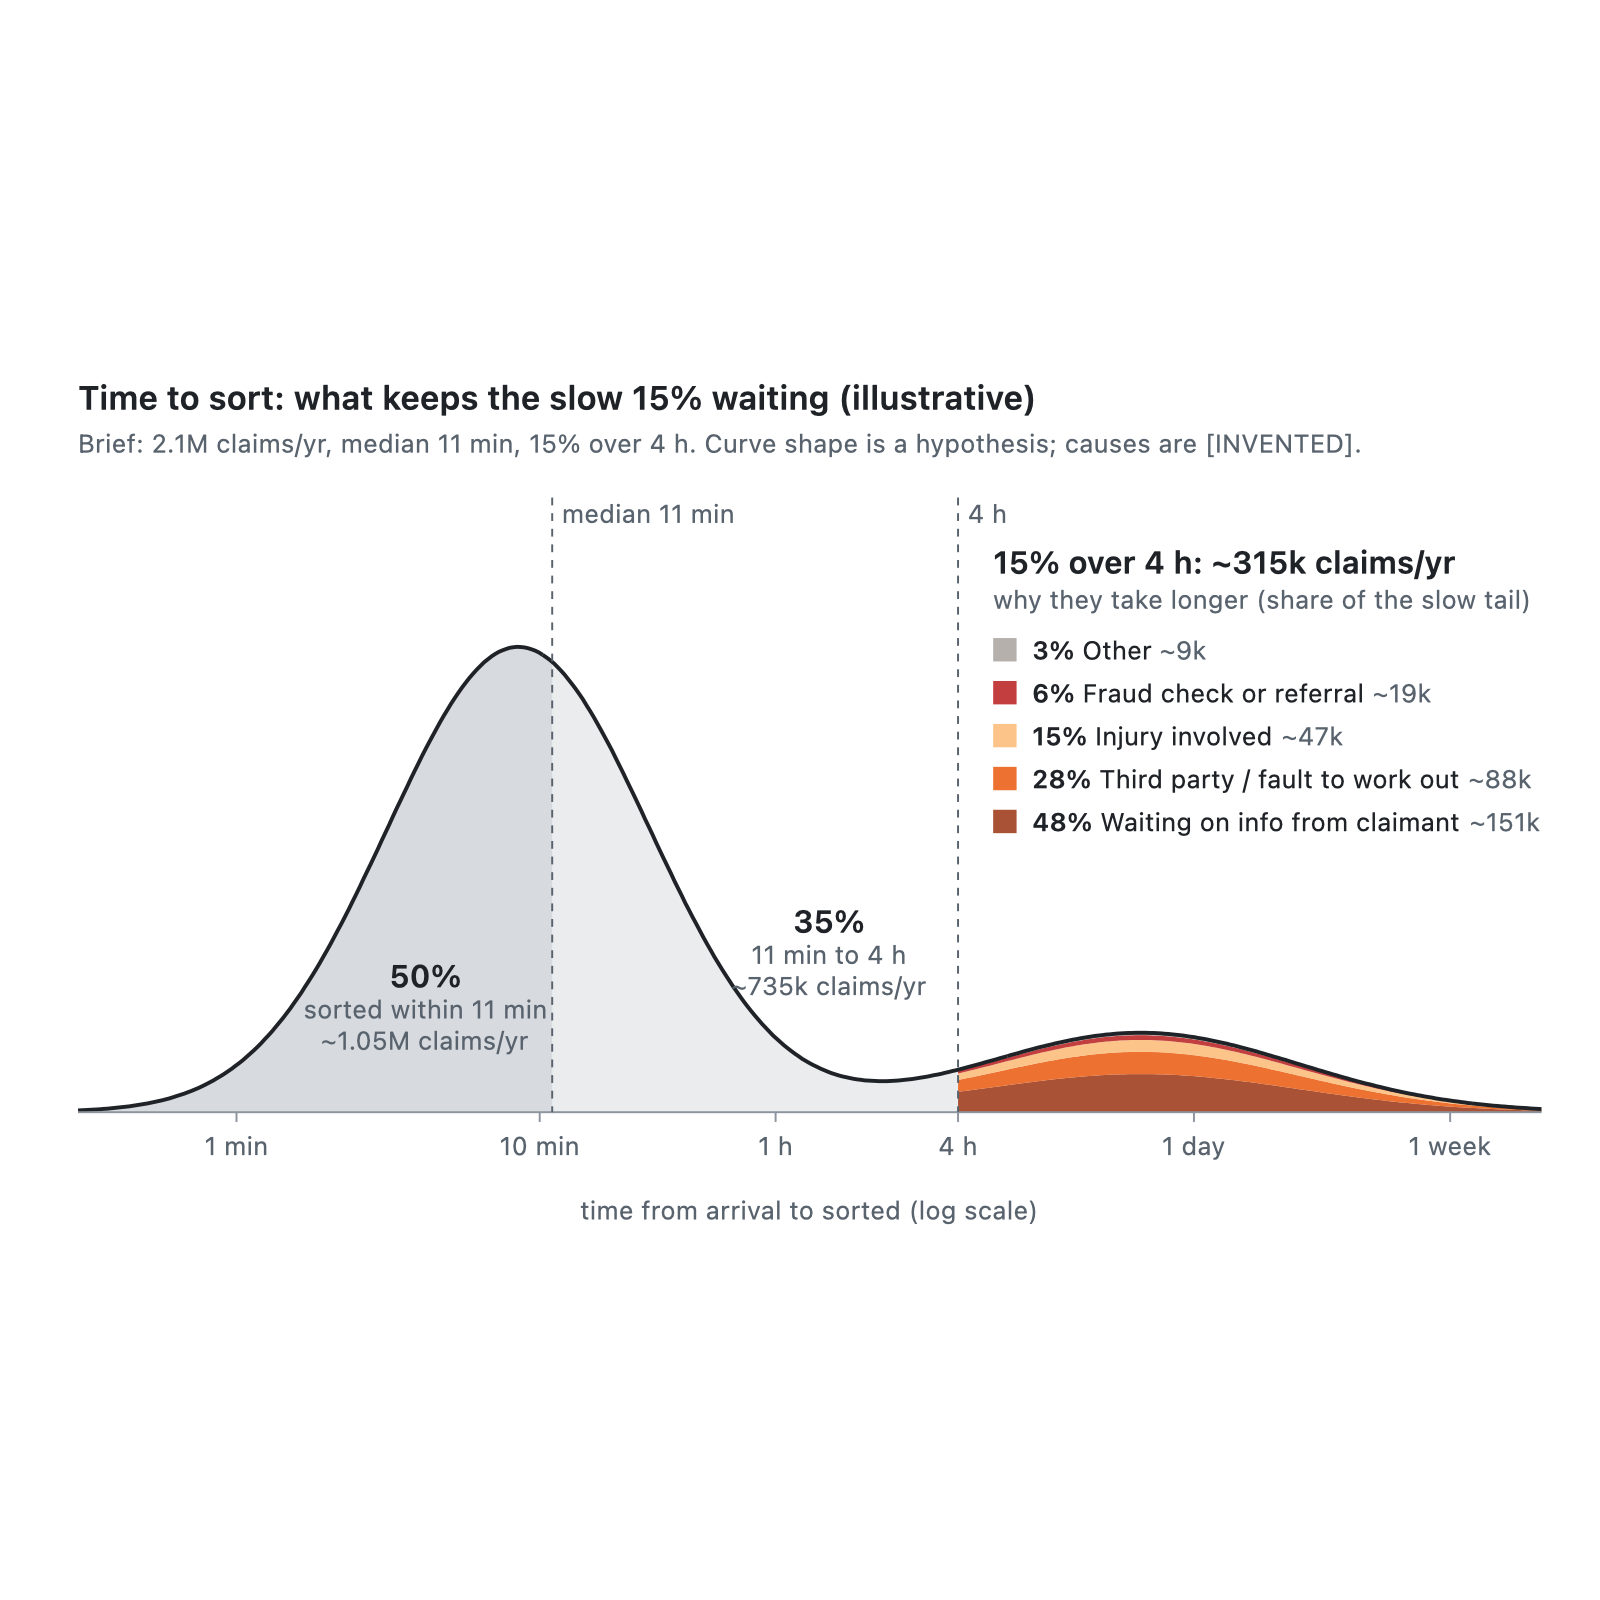
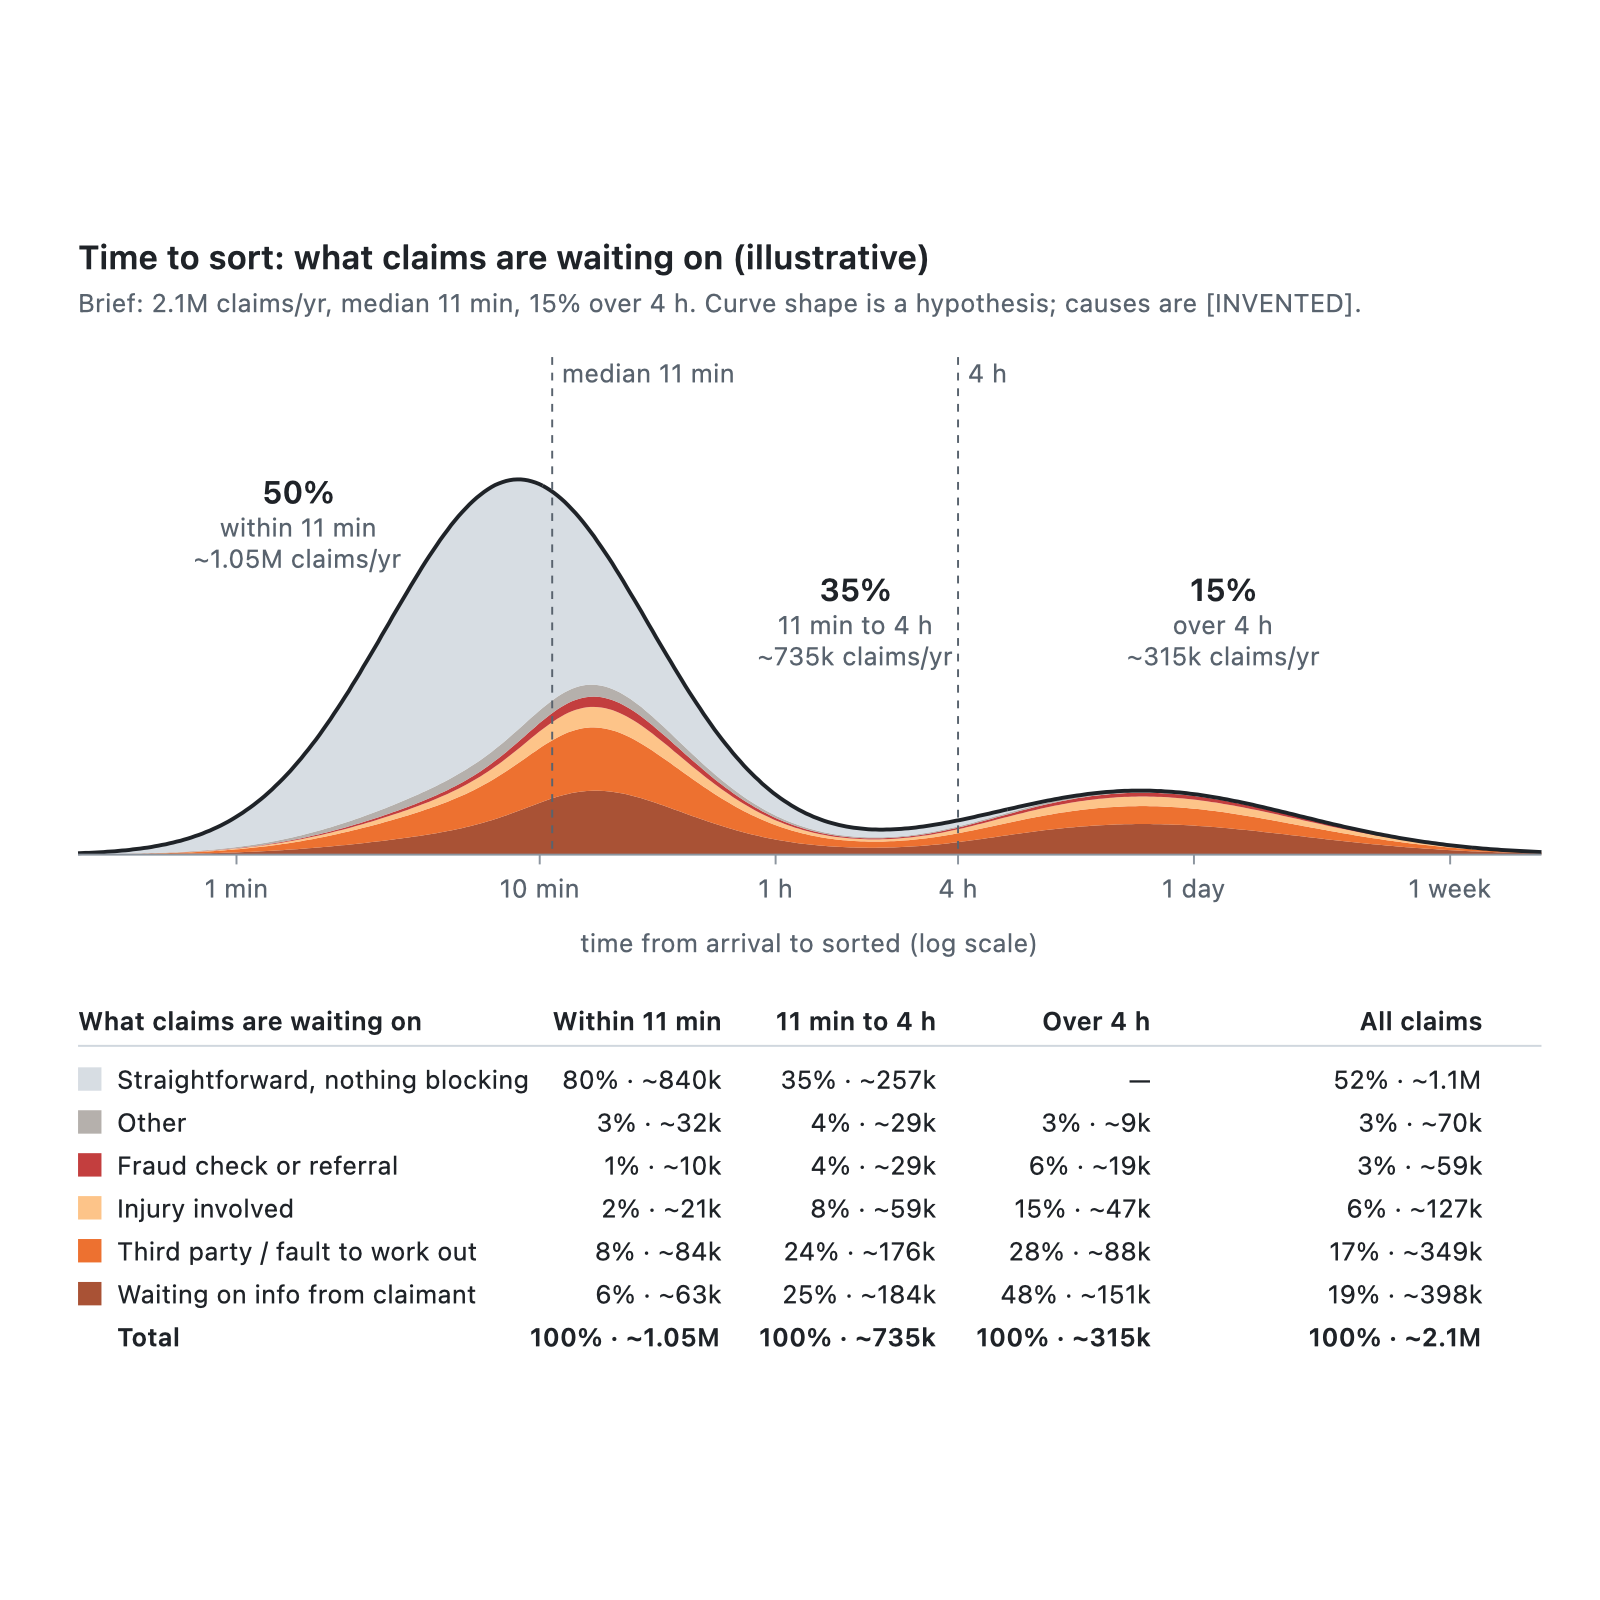
Time-to-sort chart: cause breakdown across the full curve, with table of shares and claims per year

diff --git a/02-research/assets/make_time_to_sort_chart.py b/02-research/assets/make_time_to_sort_chart.py
@@ -6,8 +6,9 @@ It is a hypothesis about the shape, not data.
 
 Writes two charts:
 - time-to-sort-distribution.svg: the curve with its three sections
-- time-to-sort-causes.svg: the same curve, with the >4h tail split by cause
-  (invented internal data, internal-data.md §2) and claim counts per year
+- time-to-sort-causes.svg: the same curve, with every section split by what
+  claims are waiting on (invented internal data, internal-data.md §2), and a
+  table of shares and claims per year
 
 Run: python3 make_time_to_sort_chart.py  (no dependencies)
 """
@@ -19,12 +20,16 @@ W_SLOW, M_FAST, S_FAST, M_SLOW, S_SLOW = 0.17, 8.5, 1.0, 960.0, 1.2
 X_MIN, X_MAX = 0.3, 20160.0
 CLAIMS_PER_YEAR = 2_100_000
 
+SECTIONS = [(X_MIN, 11, 0.50, "Within 11 min"), (11, 240, 0.35, "11 min to 4 h"), (240, X_MAX, 0.15, "Over 4 h")]
+
+# Share of claims in each section, by what they're waiting on. [INVENTED], internal-data.md §2
 CAUSES = [
-    ("Waiting on info from claimant", 0.48, "#9a3412"),
-    ("Third party / fault to work out", 0.28, "#ea580c"),
-    ("Injury involved", 0.15, "#fdba74"),
-    ("Fraud check or referral", 0.06, "#b91c1c"),
-    ("Other", 0.03, "#a8a29e"),
+    ("Waiting on info from claimant", (0.06, 0.25, 0.48), "#9a3412"),
+    ("Third party / fault to work out", (0.08, 0.24, 0.28), "#ea580c"),
+    ("Injury involved", (0.02, 0.08, 0.15), "#fdba74"),
+    ("Fraud check or referral", (0.01, 0.04, 0.06), "#b91c1c"),
+    ("Other", (0.03, 0.04, 0.03), "#a8a29e"),
+    ("Straightforward, nothing blocking", (0.80, 0.35, 0.00), "#d0d7de"),
 ]
 
 WIDTH = 820
@@ -63,8 +68,23 @@ y_max = max(density(x) for x in xs) * 1.3
 ticks = [(1, "1 min"), (10, "10 min"), (60, "1 h"), (240, "4 h"), (1440, "1 day"), (10080, "1 week")]
 
 
-def render(target, height, title, subtitle, with_causes):
-    plot_w, plot_h = WIDTH - LEFT - RIGHT, height - TOP - BOTTOM
+def section_weights(x, width=0.3):
+    """Blend the section mixes smoothly across the 11 min and 4 h boundaries."""
+    past = [1 / (1 + exp(-(log(x) - log(b)) / width)) for b in (11, 240)]
+    return [1 - past[0], past[0] - past[1], past[1]]
+
+
+def stacked(x, k):
+    """Cumulative share of the first k causes at time x."""
+    w = section_weights(x)
+    return sum(ws * sum(c[1][s] for c in CAUSES[:k]) for s, ws in enumerate(w))
+
+
+def render(target, title, subtitle, with_causes):
+    plot_h = 250
+    table_h = 30 + 22 * (len(CAUSES) + 1) + 20 if with_causes else 0
+    height = TOP + plot_h + BOTTOM + table_h
+    plot_w = WIDTH - LEFT - RIGHT
 
     def sx(x):
         return LEFT + (log(x) - log(X_MIN)) / (log(X_MAX) - log(X_MIN)) * plot_w
@@ -72,11 +92,11 @@ def render(target, height, title, subtitle, with_causes):
     def sy(y):
         return TOP + plot_h - y / y_max * plot_h
 
-    def band_path(lo, hi, f_lo=0.0, f_hi=1.0):
+    def band_path(lo, hi, f_lo=lambda x: 0.0, f_hi=lambda x: 1.0):
         pts = [lo] + [x for x in xs if lo <= x <= hi] + [hi]
-        top = " ".join(f"L{sx(x):.1f},{sy(density(x) * f_hi):.1f}" for x in pts)
-        bottom = " ".join(f"L{sx(x):.1f},{sy(density(x) * f_lo):.1f}" for x in reversed(pts))
-        return f"M{sx(lo):.1f},{sy(density(lo) * f_lo):.1f} {top} {bottom} Z"
+        top = " ".join(f"L{sx(x):.1f},{sy(density(x) * f_hi(x)):.1f}" for x in pts)
+        bottom = " ".join(f"L{sx(x):.1f},{sy(density(x) * f_lo(x)):.1f}" for x in reversed(pts))
+        return f"M{sx(lo):.1f},{sy(density(lo) * f_lo(lo)):.1f} {top} {bottom} Z"
 
     line = "M" + " L".join(f"{sx(x):.1f},{sy(density(x)):.1f}" for x in xs)
 
@@ -86,17 +106,20 @@ def render(target, height, title, subtitle, with_causes):
         f'<rect width="{WIDTH}" height="{height}" fill="#ffffff"/>',
         f'<text x="{LEFT}" y="30" font-size="17" font-weight="600" fill="#1f2328">{title}</text>',
         f'<text x="{LEFT}" y="52" fill="#59636e">{subtitle}</text>',
-        f'<path d="{band_path(X_MIN, 11)}" fill="#8c959f" fill-opacity="0.35"/>',
-        f'<path d="{band_path(11, 240)}" fill="#8c959f" fill-opacity="0.18"/>',
     ]
 
     if with_causes:
-        cum = 0.0
-        for _, share, colour in CAUSES:
-            out.append(f'<path d="{band_path(240, X_MAX, cum, cum + share)}" fill="{colour}" fill-opacity="0.85"/>')
-            cum += share
+        for k in range(len(CAUSES)):
+            out.append(
+                f'<path d="{band_path(X_MIN, X_MAX, lambda x: stacked(x, k), lambda x: stacked(x, k + 1))}" '
+                f'fill="{CAUSES[k][2]}" fill-opacity="0.85"/>'
+            )
     else:
-        out.append(f'<path d="{band_path(240, X_MAX)}" fill="#e8590c" fill-opacity="0.35"/>')
+        out += [
+            f'<path d="{band_path(X_MIN, 11)}" fill="#8c959f" fill-opacity="0.35"/>',
+            f'<path d="{band_path(11, 240)}" fill="#8c959f" fill-opacity="0.18"/>',
+            f'<path d="{band_path(240, X_MAX)}" fill="#e8590c" fill-opacity="0.35"/>',
+        ]
 
     out += [
         f'<path d="{line}" fill="none" stroke="#1f2328" stroke-width="2"/>',
@@ -110,63 +133,82 @@ def render(target, height, title, subtitle, with_causes):
         )
         out.append(f'<text x="{sx(v) + 5:.1f}" y="{TOP + 8}" fill="#59636e">{label}</text>')
 
-    extra = 18 if with_causes else 0
-    sections = [(4.2, 30 + extra, 0.50, "sorted within 11 min"), (90, 58 + extra, 0.35, "11 min to 4 h")]
-    if not with_causes:
-        sections.append((1800, 58, 0.15, "over 4 h"))
-    for x, lift, share, name in sections:
-        y = sy(0) - lift
-        out.append(
-            f'<text x="{sx(x):.1f}" y="{y - 16:.1f}" text-anchor="middle" font-size="16" '
-            f'font-weight="600" fill="#1f2328">{share:.0%}</text>'
-        )
-        out.append(f'<text x="{sx(x):.1f}" y="{y:.1f}" text-anchor="middle" fill="#59636e">{name}</text>')
-        if with_causes:
+    if with_causes:
+        labels = [(1.6, TOP + 70), (110, TOP + 120), (1800, TOP + 120)]
+        for (x, y), (_, _, share, name) in zip(labels, SECTIONS):
             out.append(
-                f'<text x="{sx(x):.1f}" y="{y + 16:.1f}" text-anchor="middle" fill="#59636e">'
+                f'<text x="{sx(x):.1f}" y="{y:.1f}" text-anchor="middle" font-size="16" '
+                f'font-weight="600" fill="#1f2328">{share:.0%}</text>'
+            )
+            out.append(
+                f'<text x="{sx(x):.1f}" y="{y + 17:.1f}" text-anchor="middle" fill="#59636e">'
+                f"{name.lower()}</text>"
+            )
+            out.append(
+                f'<text x="{sx(x):.1f}" y="{y + 33:.1f}" text-anchor="middle" fill="#59636e">'
                 f"{claims(share)} claims/yr</text>"
             )
-
-    if with_causes:
-        lx, ly = sx(240) + 18, TOP + 34
-        out.append(
-            f'<text x="{lx:.1f}" y="{ly:.1f}" font-size="16" font-weight="600" fill="#1f2328">'
-            f"15% over 4 h: {claims(0.15)} claims/yr</text>"
-        )
-        out.append(f'<text x="{lx:.1f}" y="{ly + 18:.1f}" fill="#59636e">why they take longer (share of the slow tail)</text>')
-        for i, (name, share, colour) in enumerate(reversed(CAUSES)):
-            y = ly + 44 + i * 22
-            out.append(f'<rect x="{lx:.1f}" y="{y - 11:.1f}" width="12" height="12" fill="{colour}" fill-opacity="0.85"/>')
+    else:
+        for x, lift, share, name in [
+            (4.2, 30, 0.50, "sorted within 11 min"),
+            (90, 58, 0.35, "11 min to 4 h"),
+            (1800, 58, 0.15, "over 4 h"),
+        ]:
+            y = sy(0) - lift
             out.append(
-                f'<text x="{lx + 20:.1f}" y="{y:.1f}" fill="#1f2328"><tspan font-weight="600">{share:.0%}</tspan> '
-                f'{name} <tspan fill="#59636e">{claims(0.15 * share)}</tspan></text>'
+                f'<text x="{sx(x):.1f}" y="{y - 16:.1f}" text-anchor="middle" font-size="16" '
+                f'font-weight="600" fill="#1f2328">{share:.0%}</text>'
             )
+            out.append(f'<text x="{sx(x):.1f}" y="{y:.1f}" text-anchor="middle" fill="#59636e">{name}</text>')
 
     for v, label in ticks:
         out.append(f'<line x1="{sx(v):.1f}" x2="{sx(v):.1f}" y1="{sy(0):.1f}" y2="{sy(0) + 5:.1f}" stroke="#8c959f"/>')
         out.append(f'<text x="{sx(v):.1f}" y="{sy(0) + 22:.1f}" text-anchor="middle" fill="#59636e">{label}</text>')
 
     out.append(
-        f'<text x="{LEFT + plot_w / 2:.1f}" y="{height - 15}" text-anchor="middle" fill="#59636e">'
+        f'<text x="{LEFT + plot_w / 2:.1f}" y="{sy(0) + 50:.1f}" text-anchor="middle" fill="#59636e">'
         "time from arrival to sorted (log scale)</text>"
     )
+
+    if with_causes:
+        ty = sy(0) + BOTTOM + 20
+        cols = [370, 480, 590, 760]
+        heads = [s[3] for s in SECTIONS] + ["All claims"]
+        out.append(f'<text x="{LEFT}" y="{ty:.1f}" font-weight="600" fill="#1f2328">What claims are waiting on</text>')
+        for cx, h in zip(cols, heads):
+            out.append(f'<text x="{cx}" y="{ty:.1f}" text-anchor="end" font-weight="600" fill="#1f2328">{h}</text>')
+        out.append(f'<line x1="{LEFT}" x2="{WIDTH - RIGHT}" y1="{ty + 8:.1f}" y2="{ty + 8:.1f}" stroke="#d0d7de"/>')
+        rows = list(reversed(CAUSES)) + [("Total", (1.0, 1.0, 1.0), None)]
+        for r, (name, shares, colour) in enumerate(rows):
+            y = ty + 30 + r * 22
+            if colour:
+                out.append(f'<rect x="{LEFT}" y="{y - 11:.1f}" width="12" height="12" fill="{colour}" fill-opacity="0.85"/>')
+            weight = ' font-weight="600"' if colour is None else ""
+            out.append(f'<text x="{LEFT + 20}" y="{y:.1f}" fill="#1f2328"{weight}>{name}</text>')
+            overall = sum(sh * sec[2] for sh, sec in zip(shares, SECTIONS))
+            cells = [(sh, sh * sec[2]) for sh, sec in zip(shares, SECTIONS)] + [(overall, overall)]
+            for cx, (pct, of_all) in zip(cols, cells):
+                text = f"{pct:.0%} · {claims(of_all)}" if of_all else "—"
+                out.append(f'<text x="{cx}" y="{y:.1f}" text-anchor="end" fill="#1f2328"{weight}>{text}</text>')
+
     out.append("</svg>")
     target.write_text("\n".join(out))
     print(f"wrote {target}")
 
 
+for s in range(len(SECTIONS)):
+    assert abs(sum(c[1][s] for c in CAUSES) - 1) < 1e-9, f"section {s} shares don't add to 100%"
+
 here = Path(__file__).parent
 render(
     here / "time-to-sort-distribution.svg",
-    400,
     "Time to sort: a fast majority and a long tail (illustrative)",
     "Known from the brief: median 11 min, 15% over 4 h. Curve shape is a hypothesis fitted to those two points.",
     with_causes=False,
 )
 render(
     here / "time-to-sort-causes.svg",
-    460,
-    "Time to sort: what keeps the slow 15% waiting (illustrative)",
+    "Time to sort: what claims are waiting on (illustrative)",
     "Brief: 2.1M claims/yr, median 11 min, 15% over 4 h. Curve shape is a hypothesis; causes are [INVENTED].",
     with_causes=True,
 )

diff --git a/02-research/time-to-sort-distribution.md b/02-research/time-to-sort-distribution.md
@@ -8,9 +8,14 @@ What the brief's time-to-sort numbers do and don't tell us, and what we'd ask fo
 
 ### Why the slow 15% take longer
 
-![Time to sort with the slow tail split by cause](assets/time-to-sort-causes.svg)
+![Time to sort split by what claims are waiting on](assets/time-to-sort-causes.svg)
 
-The same curve, with the claims over 4 h split by cause and turned into claims per year (15% of 2.1M = ~315k). Waiting on information from the claimant is the biggest band, ~151k claims a year, which is why missing-information flagging comes first. Fraud is the smallest real cause, ~19k. **The causes are [INVENTED]** ([internal-data.md §2](internal-data.md)); the curve shape is illustrative. PNG for the deck: [`assets/time-to-sort-causes.png`](assets/time-to-sort-causes.png).
+The same curve, with every section split by what claims are waiting on, and turned into claims per year. **The causes are [INVENTED]** ([internal-data.md §2](internal-data.md)); the curve shape is illustrative, and the mix is blended smoothly across the 11 min and 4 h lines (the table has the exact numbers per section). PNG for the deck: [`assets/time-to-sort-causes.png`](assets/time-to-sort-causes.png).
+
+- **The fast half is mostly straightforward claims** (80%, ~840k a year): nothing to wait on.
+- **The slow 15% has no straightforward claims.** Waiting on information is the biggest band (48%, ~151k).
+- **Waiting on information is the biggest blocker overall** (~398k claims a year), and more of it sits between 11 min and 4 h (~184k) than over 4 h. So missing-information flagging speeds up far more claims than the slow tail alone suggests.
+- **Fraud is small everywhere**: ~59k claims a year, 3% of all claims.
 
 ## What we know vs what we infer
 

diff --git a/02-research/internal-data.md b/02-research/internal-data.md
@@ -36,7 +36,18 @@ Weighted, this gives ~15% over 4h, matching the brief.
 | Fraud check or referral | 6% |
 | Other | 3% |
 
-Shown on the time-to-sort curve, with claims per year: [time-to-sort-distribution.md](time-to-sort-distribution.md#why-the-slow-15-take-longer).
+**Across all claims, not just the slow ones.** The same method on a second random sample of 400 claims from the faster two sections (claims sorted in under 4h):
+
+| What the claim was waiting on | Within 11 min (50%) | 11 min to 4 h (35%) | Over 4 h (15%) | All claims |
+|---|---|---|---|---|
+| Straightforward, nothing blocking | 80% | 35% | 0% | ~52% (~1.1M) |
+| Waiting on information from the claimant | 6% | 25% | 48% | ~19% (~398k) |
+| Third party / fault to determine | 8% | 24% | 28% | ~17% (~349k) |
+| Injury involved | 2% | 8% | 15% | ~6% (~127k) |
+| Fraud check or referral | 1% | 4% | 6% | ~3% (~59k) |
+| Other | 3% | 4% | 3% | ~3% (~70k) |
+
+~52% straightforward is close to the ~58% of motor claims one UK insurer found automatable ([research §1](motor-claims-triage-and-fraud.md)). More claims wait on information between 11 min and 4h (~184k) than over 4h (~151k), so missing-information flagging helps far beyond the slow tail. Shown on the time-to-sort curve: [time-to-sort-distribution.md](time-to-sort-distribution.md#why-the-slow-15-take-longer).
 
 > Revised 2026-10-16: an earlier version listed "Above the handler's authority limit" at 7% (with info 44%, third party 26%, injury 14%). Authority limits apply when a claim is **paid**, not when it's sorted, so they can't explain slow sorting (A-20). The 7% was spread across the other causes in proportion.
 
